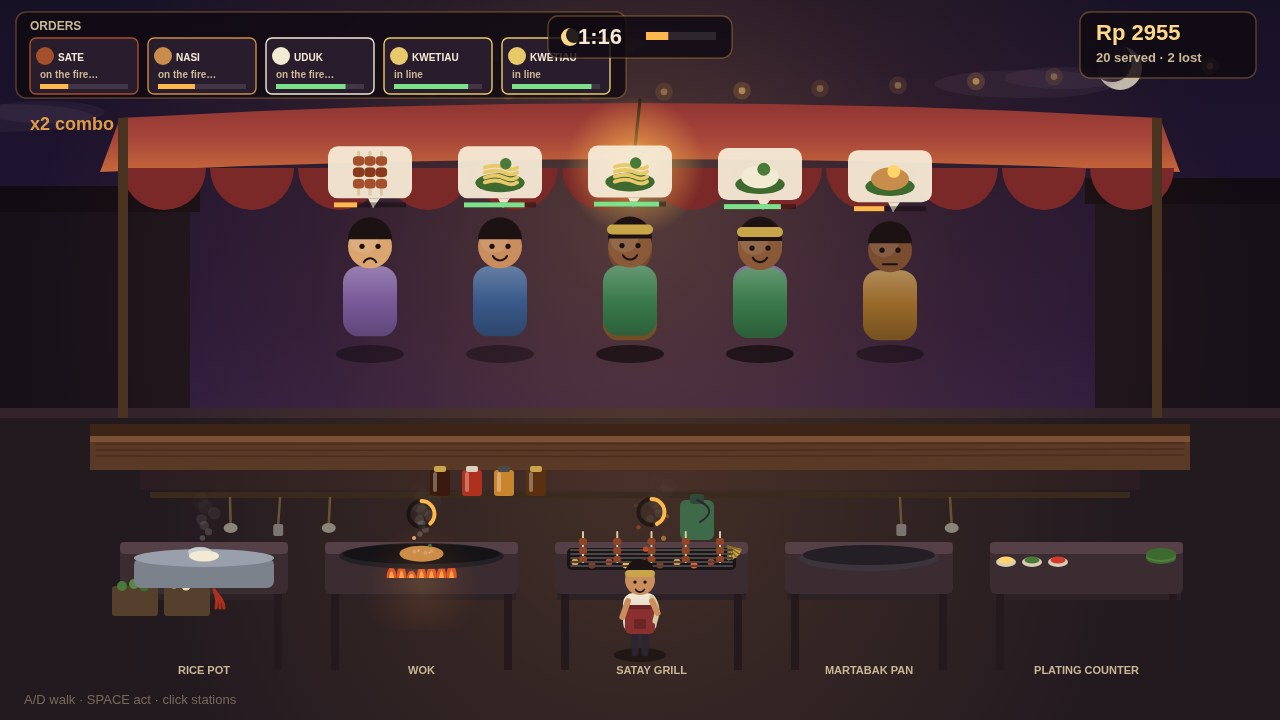
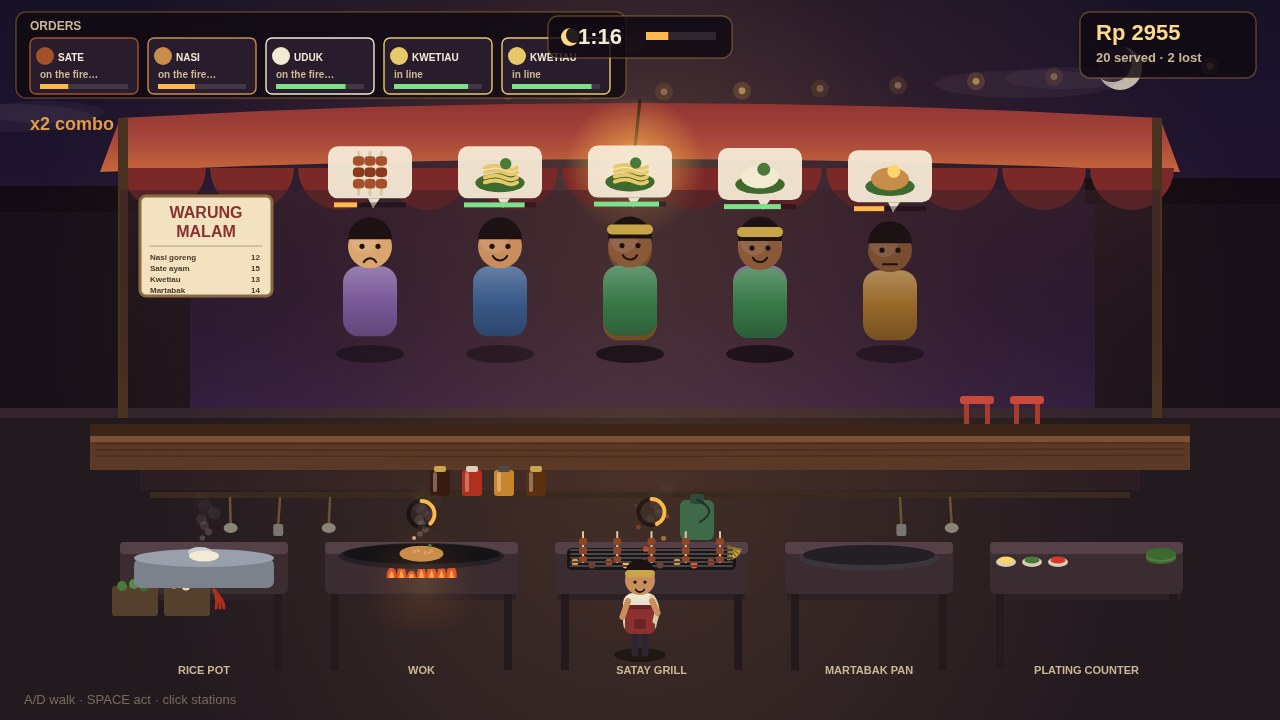
Warung set dressing: menu board, stools, tea crate; repositioned clear of queue

diff --git a/game/src/render.js b/game/src/render.js
@@ -876,6 +876,51 @@ export function createRenderer(canvas) {
     ctx.beginPath(); ctx.moveTo(697, 500); ctx.quadraticCurveTo(720, 510, 700, 522); ctx.stroke();
   }
 
+
+  // the back of the stall behind the queue: a painted menu board, stools, a drink crate —
+  // warung set dressing that fills the void and makes the place unmistakably itself
+  function drawSetDressing(world) {
+    // a warm back panel so the queue reads against wood, not void
+    const panel = ctx.createLinearGradient(0, 190, 0, 410);
+    panel.addColorStop(0, 'rgba(58,32,40,0.55)');
+    panel.addColorStop(1, 'rgba(30,18,26,0.0)');
+    ctx.fillStyle = panel;
+    ctx.fillRect(120, 190, 1040, 220);
+
+    // the hand-painted menu board hanging at the left of the stall
+    fillRR(140, 196, 132, 100, 6, '#f2e2c0');
+    ctx.strokeStyle = '#8a6a40';
+    ctx.lineWidth = 3;
+    rr(140, 196, 132, 100, 6);
+    ctx.stroke();
+    text('WARUNG', 206, 218, 16, '#8a3030', 'center', '900');
+    text('MALAM', 206, 237, 16, '#8a3030', 'center', '900');
+    ctx.strokeStyle = '#b0a080';
+    ctx.lineWidth = 1;
+    ctx.beginPath(); ctx.moveTo(150, 246); ctx.lineTo(262, 246); ctx.stroke();
+    const menuLines = [['Nasi goreng', '12'], ['Sate ayam', '15'], ['Kwetiau', '13'], ['Martabak', '14']];
+    menuLines.forEach((ln, i) => {
+      text(ln[0], 150, 260 + i * 11, 8, '#4a3a28', 'left', '600');
+      text(ln[1], 260, 260 + i * 11, 8, '#4a3a28', 'right', '600');
+    });
+
+    // a couple of empty plastic stools waiting by the counter's right end
+    for (const sx of [960, 1010]) {
+      ctx.fillStyle = '#c94a3a';
+      fillRR(sx, 396, 34, 8, 3, '#c94a3a');
+      ctx.fillStyle = '#a83a2e';
+      ctx.fillRect(sx + 4, 404, 5, 22);
+      ctx.fillRect(sx + 25, 404, 5, 22);
+    }
+    // a crate of bottled tea at the stall's left foot
+    fillRR(160, 560, 56, 34, 3, '#8a5a2a');
+    for (let i = 0; i < 3; i++) {
+      for (let j = 0; j < 2; j++) {
+        fillRR(166 + i * 16, 566 + j * 13, 11, 10, 2, '#c9852e');
+      }
+    }
+  }
+
   // ---------- the cook ----------
   function drawCook(world) {
     const cook = world.cook;
@@ -1009,6 +1054,7 @@ export function createRenderer(canvas) {
   function drawPlay(world) {
     drawBackdrop(world);
     drawStall(world);
+    drawSetDressing(world);
     drawCustomers(world);
     drawCounter();
     drawKitchenClutter(world);
